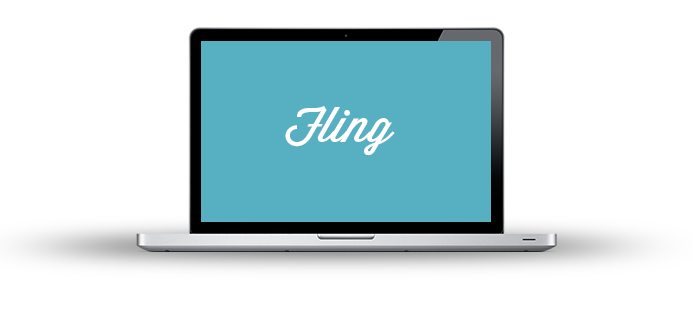
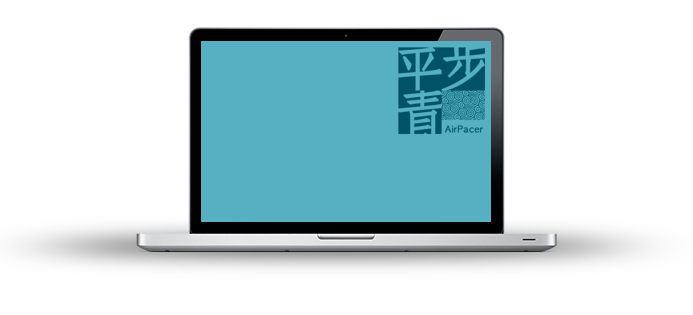
界面汉化
1.导航中文化
2.改变一些icon的位置
3.顶部联系方式修改
4.大图部分修改

Changed region(s): [[0.3939, 0.1429, 0.697, 0.4857]]

diff --git a/Main.html b/Main.html
@@ -46,8 +46,8 @@ body.custom-background { background-color: #ffffff; background-image: url('image
 						<div class="inside clear">
 							<!--CONTACT INFO-->
 							<div class="contact-info">
-								<label>Call Us:&nbsp;+355 49 259 843 - Mail:									
-									<a href="mailto:info@example.com">info@example.com</a>
+								<label>快速致电 ; +86 10 1234 5678 - Mail: 									
+									<a href="mailto:jason.wang@airpacer.com">jason.wang@airpacer.com</a>
 								</label>
 							</div>
 							<!--SOCIAL-->
@@ -69,7 +69,7 @@ body.custom-background { background-color: #ffffff; background-image: url('image
 					<!--LOGO-->		
 					<aside class="logo">
 						<h1>
-							<a href="#"><img src="images/logo-1.png" alt="Airpacer" title="Airpacer" /></a>
+							<a href="#"><img src="images/logo.png" alt="Airpacer" title="Airpacer" /></a>
 						</h1>
 					</aside>
 
@@ -77,12 +77,12 @@ body.custom-background { background-color: #ffffff; background-image: url('image
 					<nav>
 						<div id="dropdown" class="menu clear">
                         <ul id="menu-main-nav" class="sf-menu">
-                        <li id="menu-item-12" class="menu-item menu-item-type-custom menu-item-object-custom current-menu-item current_page_item menu-item-home menu-item-12"><a href="">Home</a></li>
-						<li id="menu-item-16" class="menu-item menu-item-type-custom menu-item-object-custom menu-item-16"><a href="#">Pages</a></li>
-						<li id="menu-item-15" class="menu-item menu-item-type-post_type menu-item-object-page menu-item-15"><a href="#">Portfolio</a></li>
-						<li id="menu-item-14" class="menu-item menu-item-type-post_type menu-item-object-page menu-item-14"><a href="#">Blog</a></li>
-						<li id="menu-item-17" class="menu-item menu-item-type-custom menu-item-object-custom menu-item-17"><a href="#">Shortcodes</a></li>
-						<li id="menu-item-104" class="menu-item menu-item-type-post_type menu-item-object-page menu-item-104"><a href="#">Contact</a></li>
+                        <li id="menu-item-12" class="menu-item menu-item-type-custom menu-item-object-custom current-menu-item current_page_item menu-item-home menu-item-12"><a href="">首页</a></li>
+						<li id="menu-item-16" class="menu-item menu-item-type-custom menu-item-object-custom menu-item-16"><a href="#">招聘流程</a></li>
+						<li id="menu-item-15" class="menu-item menu-item-type-post_type menu-item-object-page menu-item-15"><a href="#">顾问团队</a></li>
+						<li id="menu-item-14" class="menu-item menu-item-type-post_type menu-item-object-page menu-item-14"><a href="#">成功案例</a></li>
+						<li id="menu-item-17" class="menu-item menu-item-type-custom menu-item-object-custom menu-item-17"><a href="#">联系我们</a></li>
+						
 </ul></div>					</nav>	
 					<div class="smenu"><select id="mselect"></select></div>
 
@@ -135,7 +135,7 @@ body.custom-background { background-color: #ffffff; background-image: url('image
 					 data-y="61" 
 					 data-speed="300" 
 					 data-start="500" 
-					 data-easing="easeOutExpo"  >Choose between two homepage types</div>
+					 data-easing="easeOutExpo"  >专注于提供招聘整体解决方案</div>
 								
 				<div class="tp-caption sfb"  
 					 data-x="126" 
@@ -154,7 +154,7 @@ body.custom-background { background-color: #ffffff; background-image: url('image
 					 data-y="191" 
 					 data-speed="300" 
 					 data-start="800" 
-					 data-easing="easeOutExpo"  >Revolution slider
+					 data-easing="easeOutExpo"  >我们服务于
 				</div>
 								
 				<div class="tp-caption medium_grey sfl"  
@@ -162,7 +162,7 @@ body.custom-background { background-color: #ffffff; background-image: url('image
 					 data-y="244" 
 					 data-speed="300" 
 					 data-start="1100" 
-					 data-easing="easeOutExpo"  >Create unlimited layers and choose between animations
+					 data-easing="easeOutExpo"  >IT / 快速消费 / 电子 / 金融服务 / 新能源 / 专业服务 / 制药市场
 				</div>
 								
 				<div class="tp-caption sfr"  
@@ -246,7 +246,7 @@ body.custom-background { background-color: #ffffff; background-image: url('image
 			<div class="inside clear">
 						<div id="post-20" class="post-20 services type-services status-publish hentry services-list">
 							<div class="services-icons">
-								<img width="14" height="24" src="images/glyphicons_163_iphone.png" class="attachment-services-thumb wp-post-image" alt="glyphicons_163_iphone" title="我们的优势" />
+								<img width="27" height="24" src="images/glyphicons_041_charts.png" class="attachment-services-thumb wp-post-image" alt="glyphicons_041_charts" title="Marketing" />
 							</div>
 							<h3>我们的优势</h3>
 							<p>1.多年的人才储备及各大知名企业的员工名单。
@@ -265,7 +265,8 @@ body.custom-background { background-color: #ffffff; background-image: url('image
 						</div>
 						<div id="post-18" class="post-18 services type-services status-publish hentry services-list last">
 							<div class="services-icons">
-								<img width="27" height="24" src="images/glyphicons_041_charts.png" class="attachment-services-thumb wp-post-image" alt="glyphicons_041_charts" title="Marketing" /></div>
+								
+								<img width="14" height="24" src="images/glyphicons_163_iphone.png" class="attachment-services-thumb wp-post-image" alt="glyphicons_163_iphone" title="我们的优势" /></div>
 							<h3>联系方式</h3>
 							<p>地址：北京市朝阳区百子湾路32号苹果社区北区2B1005<br/>
 							电话： 010-57173691<br/>
@@ -391,12 +392,12 @@ body.custom-background { background-color: #ffffff; background-image: url('image
 		<footer><!--FOOTER WIDGETS-->
 					<div class="footer-widgets">
 						<div class="inside clear">
-		<div id="text-2" class="widget widget_text"><h5>About us</h5>			
+		<div id="text-2" class="widget widget_text"><h5>关于我们</h5>			
 		<div class="textwidget">北京嘉讯博诚管理咨询有限公司是一家精品猎头公司，专注于为在中国发展的跨国企业和本地企业提供招聘整体解决方案。
 我们的客户来自于各个行业的著名企业。他们的活跃在IT，快速消费品，电子，金融服务，新能源，专业服务和制药市场。
 我们的成功案例遍布中国各大城市以及部分海外城市。</div>
 		</div>
-		<div id="flickr-2" class="widget widget-flickr"><h5>Flickr</h5>				
+		<div id="flickr-2" class="widget widget-flickr"><h5>客户列表</h5>				
 				<ul id="fbox" class="clear">
 					<li>
 						<a href='http://www.flickr.com/photos/we-are-envato/8355855347/' onclick='window.open(this.href); return false;' title="Envato Christmas Party 2012">
@@ -433,7 +434,7 @@ body.custom-background { background-color: #ffffff; background-image: url('image
 
 				</div>
 
-				<div id="gettouch-2" class="widget widget-get-in-touch"><h5>Connect with us</h5>	
+				<div id="gettouch-2" class="widget widget-get-in-touch"><h5>联系我们</h5>	
 				<!--FOLLOW US-->
 				<ul class="clear">
 					<li><a href="http://facebook.com/mabuc" title=""><img src="images/facebook.png" alt="" title="" /></a></li>
